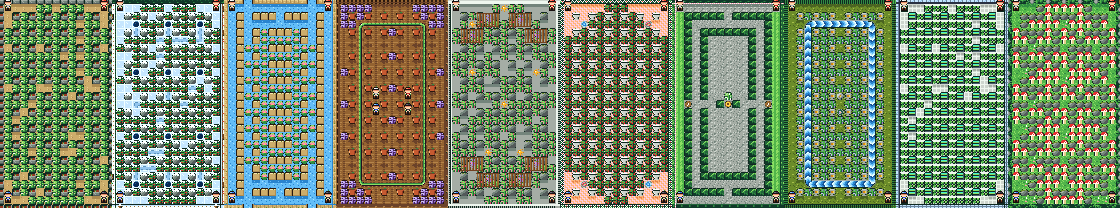
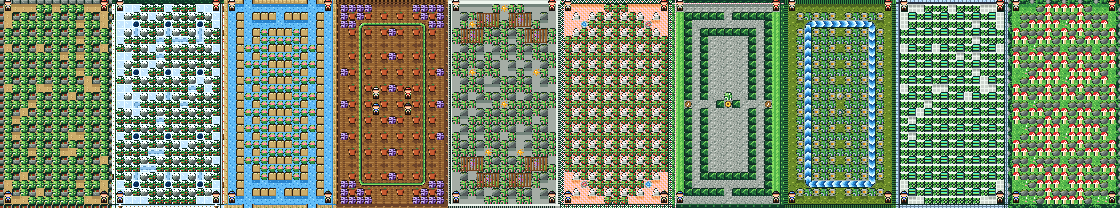
sb2: Garden Edition — rose garden: brighter rose bushes, stone pedestals with ball finials; QA: draws played out, the played stage recorded; menushots --go

Changed region(s): [[0.5, 0.0288, 0.5938, 0.9808]]

diff --git a/tools/sb2/garden/src/stages/s06.py b/tools/sb2/garden/src/stages/s06.py
@@ -65,34 +65,27 @@ def petal_ring(frame):
 
 
 def urn(base):
+    """a white stone pedestal with a ball finial (the rose garden's hard block)"""
     u = grid("""
-................
-.oooooooooooooo.
-o44444444444443o
-o33333333333332o
-.oooooooooooooo.
-.o443333333322o.
-o4433333333332 2o
-o4433333333333 2o
-""".replace(' ', ''), {'o': INK, '4': WHITE, '3': STONE_4, '2': STONE_3}) if False else grid("""
-................
-.oooooooooooooo.
-o44444444444443o
-o33333333333332o
+......oooo......
+.....o4443o.....
+....o444433o....
+....o443333o....
+.....o3332o.....
+...oooooooooo...
+..o4444444443o..
 .oooooooooooooo.
 .o443333333322o.
-o44333333333322o
-o43333333333322o
-o43333333333322o
 .o433333333322o.
-..oo43333322oo..
-....o433332o....
-...oo433332oo...
-..o4433333322o..
-..o3333333322o..
-..oooooooooooo..
+.o433333333322o.
+.o433333333322o.
+.o432222222222o.
+oo444444444443oo
+o33333333333332o
+oooooooooooooooo
 """, {'o': INK, '4': WHITE, '3': STONE_4, '2': STONE_3})
-    for (x, y, c) in ((5, 1, LEAF_2), (6, 0, LEAF_3), (9, 0, LEAF_3), (10, 1, LEAF_2), (7, 1, RED), (8, 1, RED)):
+    # a climbing rose on the pedestal
+    for (x, y, c) in ((3, 9, LEAF_2), (3, 10, LEAF_3), (4, 11, LEAF_2), (3, 12, LEAF_3), (4, 9, RED), (4, 8, RED_D)):
         u[y, x] = c
     return over(base.copy(), u)
 
@@ -132,7 +125,7 @@ def terrain(ctx):
         {'tile': 0x46, 'pal': 6, 'frames': [(k * 2, birdbath(k)) for k in range(4)]},
         {'tile': 0x2A, 'pal': 6, 'frames': [(8 + k * 2, petal_ring(k)) for k in range(4)]},
     ]
-    rose = clump_bush([LEAF_0, LEAF_1, LEAF_2, LEAF_3], INK)
+    rose = clump_bush([LEAF_1, LEAF_2, LEAF_3, LEAF_4], INK)
     for (fx, fy) in ((4, 4), (11, 3), (8, 8), (3, 11), (12, 10), (7, 13)):
         for (dx, dy, c) in ((0, 0, RED), (1, 0, RED_D), (0, 1, RED_D), (1, 1, RED), (-1, 0, PINK), (0, -1, PINK), (1, -1, RED), (-1, 1, RED_D)):
             if 0 <= fx + dx < 16 and 0 <= fy + dy < 16 and rose[fy + dy, fx + dx] not in (INK, -1):
